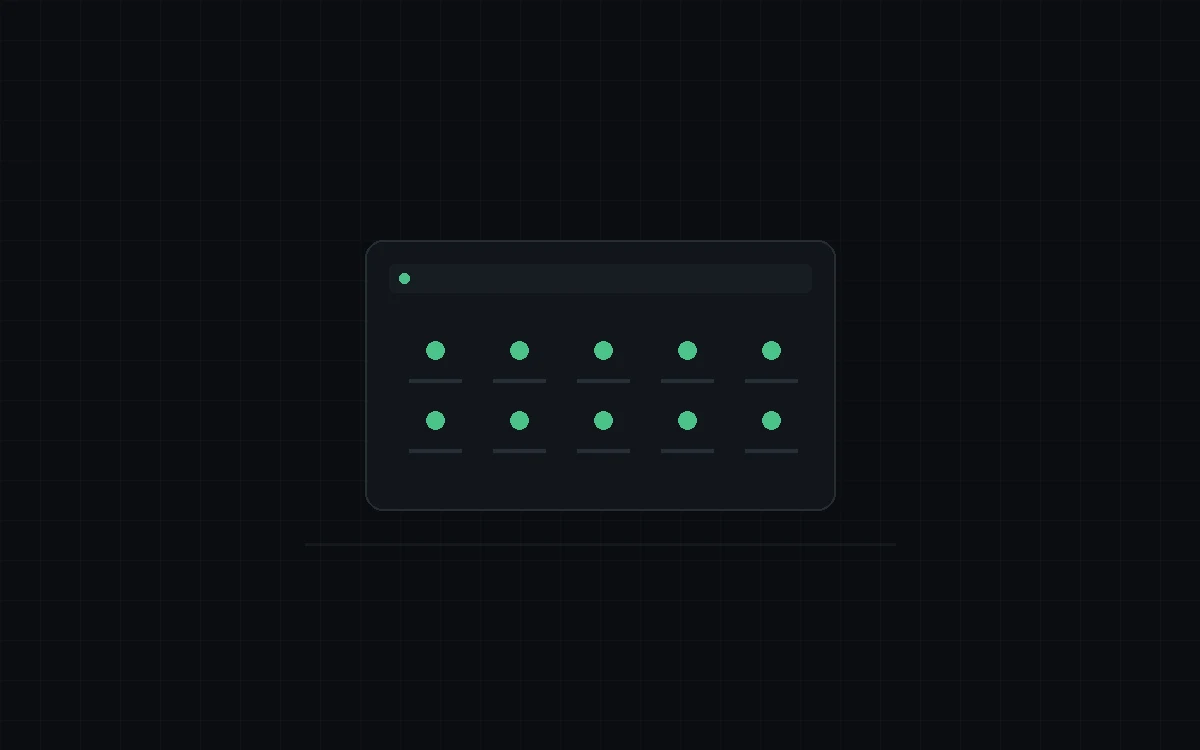
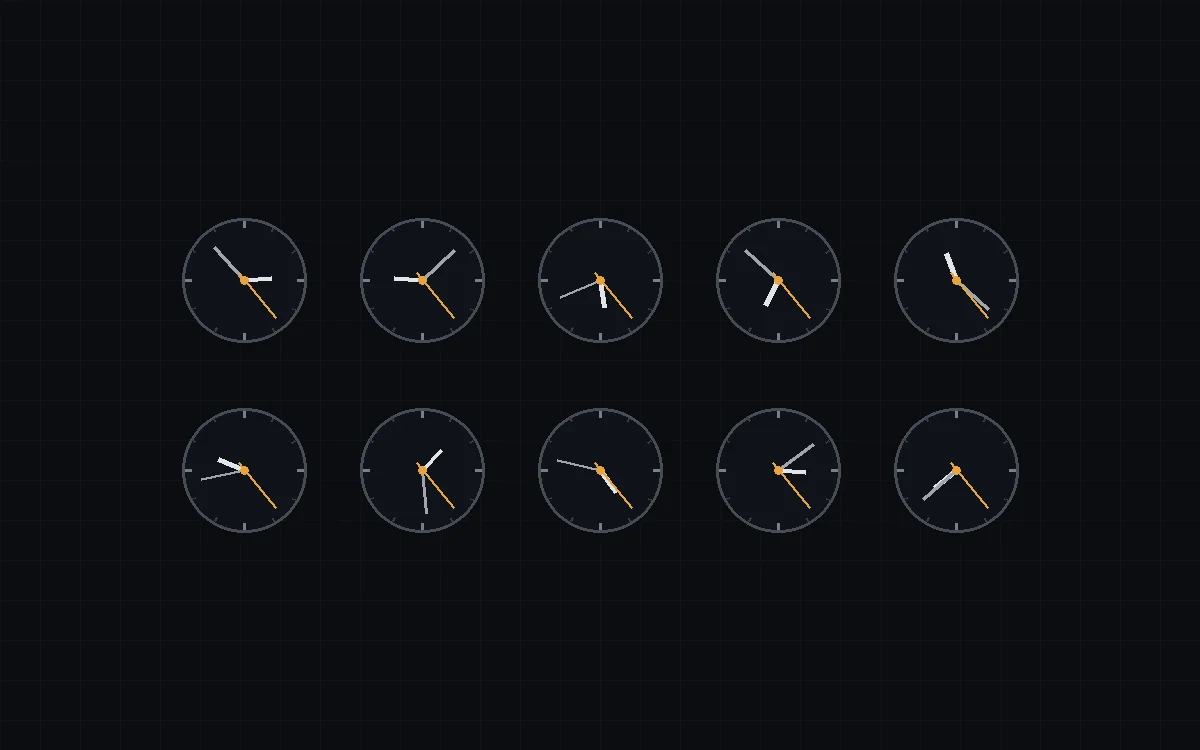
Operations page: amber accent, analog clock-wall hero, matching card art

diff --git a/components/OperationsCaseStudy.tsx b/components/OperationsCaseStudy.tsx
@@ -4,8 +4,8 @@ import { useNavigate } from 'react-router-dom';
 import { ArrowLeft, Download, RotateCcw } from 'lucide-react';
 import { useScrollReveal, CountUp } from './CaseStudyShared';
 
-/* Operations theme — "mission control" status green, calmer than Matinee's signal green */
-const GREEN = '#4cc38a';
+/* Operations theme — mission-control console amber */
+const AMBER = '#e8a33d';
 
 /* ─── Scroll progress bar ─── */
 const ScrollProgress: React.FC = () => {
@@ -26,47 +26,73 @@ const ScrollProgress: React.FC = () => {
     window.addEventListener('scroll', onScroll, { passive: true });
     return () => window.removeEventListener('scroll', onScroll);
   }, []);
-  return <div ref={barRef} className="fixed top-0 left-0 h-[3px] z-[70]" style={{ width: '0%', background: GREEN }} />;
+  return <div ref={barRef} className="fixed top-0 left-0 h-[3px] z-[70]" style={{ width: '0%', background: AMBER }} />;
 };
 
 /* ─── Overline ─── */
 const Overline: React.FC<{ children: React.ReactNode }> = ({ children }) => (
-  <p data-reveal className="ops-reveal text-[13px] font-semibold uppercase tracking-[0.2em] mb-6 font-mono" style={{ color: GREEN }}>
+  <p data-reveal className="ops-reveal text-[13px] font-semibold uppercase tracking-[0.2em] mb-6 font-mono" style={{ color: AMBER }}>
     {children}
   </p>
 );
 
 /* ════════════════════════════════════════════════════════════════════════
-   SITE CLOCKS — decorative strip of ten unnamed sites.
+   THE CLOCK WALL — ten analog clocks, newsroom style, for ten unnamed sites.
    Deliberately fictional: no city names, and the offsets are arbitrary
    minute values that do not map to real time zones. "10 global sites" is
-   public; which ten is not, and this strip must never imply otherwise.
+   public; which ten is not, and this wall must never imply otherwise.
+   Every clock shows a different time — but the second hands sweep in
+   perfect sync. Ten sites, one standard.
    ════════════════════════════════════════════════════════════════════════ */
 const FAKE_OFFSETS_MIN = [173, -412, 641, -88, 322, -257, 509, 47, -531, 218];
 
-const SiteClocks: React.FC = () => {
+const ClockFace: React.FC<{ now: number; offsetMin: number; label: string }> = ({ now, offsetMin, label }) => {
+  const d = new Date(now + offsetMin * 60_000);
+  const h = d.getHours() % 12, m = d.getMinutes(), s = d.getSeconds();
+  const hourDeg = h * 30 + m * 0.5;
+  const minDeg = m * 6 + s * 0.1;
+  const secDeg = s * 6;
+  return (
+    <div className="flex flex-col items-center gap-2">
+      <svg viewBox="0 0 100 100" className="w-14 h-14 sm:w-16 sm:h-16 md:w-20 md:h-20" aria-hidden="true">
+        <circle cx="50" cy="50" r="46" fill="rgba(255,255,255,0.02)" stroke="rgba(255,255,255,0.14)" strokeWidth="2" />
+        {Array.from({ length: 12 }, (_, i) => {
+          const a = (i * 30 * Math.PI) / 180;
+          const r1 = i % 3 === 0 ? 38 : 41;
+          return (
+            <line key={i}
+              x1={50 + r1 * Math.sin(a)} y1={50 - r1 * Math.cos(a)}
+              x2={50 + 44 * Math.sin(a)} y2={50 - 44 * Math.cos(a)}
+              stroke={i % 3 === 0 ? 'rgba(255,255,255,0.35)' : 'rgba(255,255,255,0.15)'} strokeWidth={i % 3 === 0 ? 2.5 : 1.5} />
+          );
+        })}
+        <line x1="50" y1="50" x2="50" y2="27" stroke="rgba(255,255,255,0.85)" strokeWidth="4" strokeLinecap="round" transform={`rotate(${hourDeg} 50 50)`} />
+        <line x1="50" y1="50" x2="50" y2="16" stroke="rgba(255,255,255,0.55)" strokeWidth="2.5" strokeLinecap="round" transform={`rotate(${minDeg} 50 50)`} />
+        <line x1="50" y1="56" x2="50" y2="12" stroke={AMBER} strokeWidth="1.5" strokeLinecap="round" transform={`rotate(${secDeg} 50 50)`} />
+        <circle cx="50" cy="50" r="3" fill={AMBER} />
+      </svg>
+      <div className="font-mono text-[9px] md:text-[10px] tracking-[0.15em] text-white/35 whitespace-nowrap">{label}</div>
+    </div>
+  );
+};
+
+const ClockWall: React.FC = () => {
   const [now, setNow] = useState(() => Date.now());
   useEffect(() => {
     if (window.matchMedia('(prefers-reduced-motion: reduce)').matches) return;
-    const id = setInterval(() => setNow(Date.now()), 10_000);
+    const id = setInterval(() => setNow(Date.now()), 1000);
     return () => clearInterval(id);
   }, []);
-  const fmt = (offsetMin: number) => {
-    const d = new Date(now + offsetMin * 60_000);
-    return `${String(d.getHours()).padStart(2, '0')}:${String(d.getMinutes()).padStart(2, '0')}`;
-  };
   return (
-    <div aria-hidden="true" className="w-full overflow-x-auto no-scrollbar border-b border-white/[0.05]">
-      <div className="flex gap-6 md:gap-8 px-6 py-3 min-w-max mx-auto justify-center">
+    <div aria-hidden="true" className="w-full max-w-4xl mx-auto">
+      <div className="grid grid-cols-5 gap-x-3 gap-y-6 md:gap-x-8 md:gap-y-8 px-4">
         {FAKE_OFFSETS_MIN.map((off, i) => (
-          <div key={i} className="flex items-center gap-2 font-mono text-[10px] tracking-[0.15em] text-white/30 whitespace-nowrap">
-            <span>SITE {String(i + 1).padStart(2, '0')}</span>
-            <span className="text-white/50 tabular-nums">{fmt(off)}</span>
-            <span className="w-1.5 h-1.5 rounded-full" style={{ background: GREEN, boxShadow: `0 0 6px ${GREEN}66` }} />
-            <span style={{ color: `${GREEN}99` }}>NOMINAL</span>
-          </div>
+          <ClockFace key={i} now={now} offsetMin={off} label={`SITE ${String(i + 1).padStart(2, '0')}`} />
         ))}
       </div>
+      <p className="text-center font-mono text-[10px] md:text-[11px] tracking-[0.2em] uppercase text-white/25 mt-8">
+        Ten local times · <span style={{ color: `${AMBER}b3` }}>one second hand</span>
+      </p>
     </div>
   );
 };
@@ -107,7 +133,7 @@ const CalibrationExercise: React.FC = () => {
     <div className="rounded-2xl border border-white/[0.08] bg-white/[0.02] p-6 md:p-10">
       {/* The rubric */}
       <div className="mb-8">
-        <p className="font-mono text-[11px] uppercase tracking-[0.2em] mb-3" style={{ color: GREEN }}>Rating Rubric v1.0</p>
+        <p className="font-mono text-[11px] uppercase tracking-[0.2em] mb-3" style={{ color: AMBER }}>Rating Rubric v1.0</p>
         <p className="text-white font-bold mb-3">Rate each swatch: how blue is it? (1 = not blue, 5 = fully blue)</p>
         <ol className="space-y-1 text-[15px] text-[#9a9a9f] font-mono list-decimal list-inside">
           <li>Blue means blue-blue: sky, cobalt, navy.</li>
@@ -131,7 +157,7 @@ const CalibrationExercise: React.FC = () => {
                     disabled={revealed}
                     className="w-9 h-9 rounded-lg font-mono text-sm font-bold border transition-colors disabled:cursor-default"
                     style={ratings[i] === n
-                      ? { background: GREEN, color: '#0b0d10', borderColor: GREEN }
+                      ? { background: AMBER, color: '#0b0d10', borderColor: AMBER }
                       : { background: 'transparent', color: 'rgba(255,255,255,0.45)', borderColor: 'rgba(255,255,255,0.12)' }}
                     aria-pressed={ratings[i] === n}
                   >
@@ -141,7 +167,7 @@ const CalibrationExercise: React.FC = () => {
               </div>
               {revealed && (
                 <p className="text-[12px] text-[#9a9a9f] mt-2 font-mono">
-                  <span style={{ color: GREEN }}>Standard: {SWATCHES[i].standard}</span>
+                  <span style={{ color: AMBER }}>Standard: {SWATCHES[i].standard}</span>
                   {ratings[i] !== SWATCHES[i].standard && <span className="text-amber-400/80"> · you said {ratings[i]}</span>}
                   {' — '}{s.note}
                 </p>
@@ -157,7 +183,7 @@ const CalibrationExercise: React.FC = () => {
           onClick={() => complete && setRevealed(true)}
           disabled={!complete}
           className="px-7 py-4 rounded-full font-mono text-[12px] font-bold uppercase tracking-[0.2em] transition-transform active:scale-95 disabled:opacity-40"
-          style={{ background: GREEN, color: '#0b0d10' }}
+          style={{ background: AMBER, color: '#0b0d10' }}
         >
           {complete ? 'Compare to the standard' : 'Rate all four to continue'}
         </button>
@@ -202,7 +228,7 @@ const OperationsCaseStudy: React.FC = () => {
         [data-reveal].revealed { opacity: 1; transform: none; }
         .no-scrollbar::-webkit-scrollbar { display: none; }
         .no-scrollbar { scrollbar-width: none; }
-        .ops-grid { background-image: linear-gradient(rgba(76,195,138,.04) 1px, transparent 1px), linear-gradient(90deg, rgba(76,195,138,.04) 1px, transparent 1px); background-size: 40px 40px; }
+        .ops-grid { background-image: linear-gradient(rgba(232,163,61,.04) 1px, transparent 1px), linear-gradient(90deg, rgba(232,163,61,.04) 1px, transparent 1px); background-size: 40px 40px; }
         @media (prefers-reduced-motion: reduce) {
           [data-reveal] { transition: none !important; opacity: 1; transform: none; }
         }
@@ -229,29 +255,29 @@ const OperationsCaseStudy: React.FC = () => {
 
       {/* ══ HERO ══ */}
       <header className="relative min-h-screen flex flex-col overflow-hidden">
-        <div className="pt-28 md:pt-24">
-          <SiteClocks />
-        </div>
         <div className="relative flex-1 flex flex-col items-center justify-center text-center px-6 ops-grid">
           <div className="absolute inset-0 bg-[radial-gradient(ellipse_at_center,_transparent_30%,_#0b0d10_100%)]" />
-          <div className="relative z-10 max-w-4xl py-16">
-            <p className="text-[13px] font-mono uppercase tracking-[0.3em] mb-6" style={{ color: `${GREEN}99` }}>
+          <div className="relative z-10 max-w-4xl pt-28 pb-10 md:pt-32">
+            <p className="text-[13px] font-mono uppercase tracking-[0.3em] mb-6" style={{ color: `${AMBER}99` }}>
               Operations Console · Access Level: Public
             </p>
             <h1 className="text-5xl sm:text-6xl md:text-7xl font-black leading-[0.9] tracking-tight mb-10 text-white">
               Operations at Scale
             </h1>
             <p className="text-2xl md:text-4xl font-bold leading-snug tracking-tight max-w-3xl mx-auto text-white/90">
-              The specifics of this work are confidential, and <span style={{ color: GREEN }}>keeping them that way is part of the job.</span>
+              The specifics of this work are confidential, and <span style={{ color: AMBER }}>keeping them that way is part of the job.</span>
             </p>
             <p className="text-base md:text-lg text-white/40 max-w-xl mx-auto leading-relaxed mt-8">
               An essay on the craft of running very large operations — Trust &amp; Safety at YouTube (Google) —
               told at the altitude discretion allows. The specifics stay inside. The thinking is mine to share.
             </p>
           </div>
+          <div data-reveal className="ops-reveal relative z-10 w-full pb-16">
+            <ClockWall />
+          </div>
         </div>
         <div className="pb-12 flex justify-center">
-          <div className="w-[1px] h-16 bg-gradient-to-b from-transparent to-transparent" style={{ backgroundImage: `linear-gradient(to bottom, transparent, ${GREEN}4d, transparent)` }} />
+          <div className="w-[1px] h-16 bg-gradient-to-b from-transparent to-transparent" style={{ backgroundImage: `linear-gradient(to bottom, transparent, ${AMBER}4d, transparent)` }} />
         </div>
       </header>
 
@@ -265,7 +291,7 @@ const OperationsCaseStudy: React.FC = () => {
             { end: 20, suffix: '%', label: 'Reporting efficiency gained' },
           ].map((s, i) => (
             <div key={s.label} data-reveal className="ops-reveal" style={{ transitionDelay: `${i * 100}ms` }}>
-              <p className="text-4xl md:text-5xl font-mono font-bold tabular-nums" style={{ color: GREEN }}>
+              <p className="text-4xl md:text-5xl font-mono font-bold tabular-nums" style={{ color: AMBER }}>
                 <CountUp end={s.end} suffix={s.suffix} />
               </p>
               <p className="text-[12px] font-mono text-[#8a8a8f] uppercase tracking-wider mt-3 leading-snug">{s.label}</p>
@@ -316,7 +342,7 @@ const OperationsCaseStudy: React.FC = () => {
             </p>
             <p>
               The clearest proof I can share: I rebuilt an error-management workflow for legal operations, and internal
-              processing errors fell <span className="font-bold" style={{ color: GREEN }}>45%</span>. The insight wasn't
+              processing errors fell <span className="font-bold" style={{ color: AMBER }}>45%</span>. The insight wasn't
               a clever algorithm. It was sitting with how errors actually happened and refusing to blame the people for
               a process that made errors easy.
             </p>
@@ -368,7 +394,7 @@ const OperationsCaseStudy: React.FC = () => {
             <p>
               I build the instruments too: custom SQL dashboards that surface where performance actually bottlenecks,
               built to answer questions instead of decorating slides. One rebuild improved reporting efficiency by{' '}
-              <span className="font-bold" style={{ color: GREEN }}>20%</span> — which, in an operation, means decisions
+              <span className="font-bold" style={{ color: AMBER }}>20%</span> — which, in an operation, means decisions
               land a day earlier, every day, forever.
             </p>
           </div>
@@ -421,11 +447,11 @@ const OperationsCaseStudy: React.FC = () => {
           </div>
           <div className="mt-12 grid grid-cols-2 gap-x-8 gap-y-4 max-w-xl mx-auto">
             <div data-reveal className="ops-reveal">
-              <h4 className="text-[12px] font-mono font-bold uppercase tracking-widest mb-3" style={{ color: GREEN }}>Instruments</h4>
+              <h4 className="text-[12px] font-mono font-bold uppercase tracking-widest mb-3" style={{ color: AMBER }}>Instruments</h4>
               <ul className="space-y-2 text-left">
                 {['Quality Frameworks', 'Calibration & Consistency', 'Metric Design', 'SQL & Dashboards', 'Process Design', 'GenAI in Workflows'].map((s, i) => (
                   <li key={s} data-reveal className="ops-reveal text-[13px] text-[#9a9a9f] flex items-center gap-2" style={{ transitionDelay: `${i * 50}ms` }}>
-                    <span className="w-1.5 h-1.5 rounded-full flex-shrink-0" style={{ background: GREEN }} />{s}
+                    <span className="w-1.5 h-1.5 rounded-full flex-shrink-0" style={{ background: AMBER }} />{s}
                   </li>
                 ))}
               </ul>
@@ -446,7 +472,7 @@ const OperationsCaseStudy: React.FC = () => {
 
       {/* ══ CONTACT CTA ══ */}
       <section className="py-16 md:py-24 text-center border-t border-white/5">
-        <span className="text-[10px] font-black uppercase tracking-[0.5em] block mb-4" style={{ color: GREEN }}>GET IN TOUCH</span>
+        <span className="text-[10px] font-black uppercase tracking-[0.5em] block mb-4" style={{ color: AMBER }}>GET IN TOUCH</span>
         <h2 className="text-3xl md:text-5xl font-black tracking-tighter mb-6">Want to talk shop?</h2>
         <p className="text-[#9a9a9f] text-[17px] leading-[1.8] max-w-lg mx-auto mb-10">
           I can't tell you the specifics. I can absolutely talk craft — quality systems, calibration,
@@ -455,7 +481,7 @@ const OperationsCaseStudy: React.FC = () => {
         <button
           onClick={() => { window.location.href = `mailto:sam@sam-bloch.com`; }}
           className="group px-10 py-5 font-black uppercase text-[10px] tracking-[0.2em] rounded-full hover:brightness-110 transition-[filter,transform] shadow-xl active:scale-95 inline-flex items-center gap-3"
-          style={{ background: GREEN, color: '#0b0d10' }}
+          style={{ background: AMBER, color: '#0b0d10' }}
         >
           Let's Connect
           <svg className="w-4 h-4 transition-transform group-hover:translate-x-1" fill="none" viewBox="0 0 24 24" stroke="currentColor">
